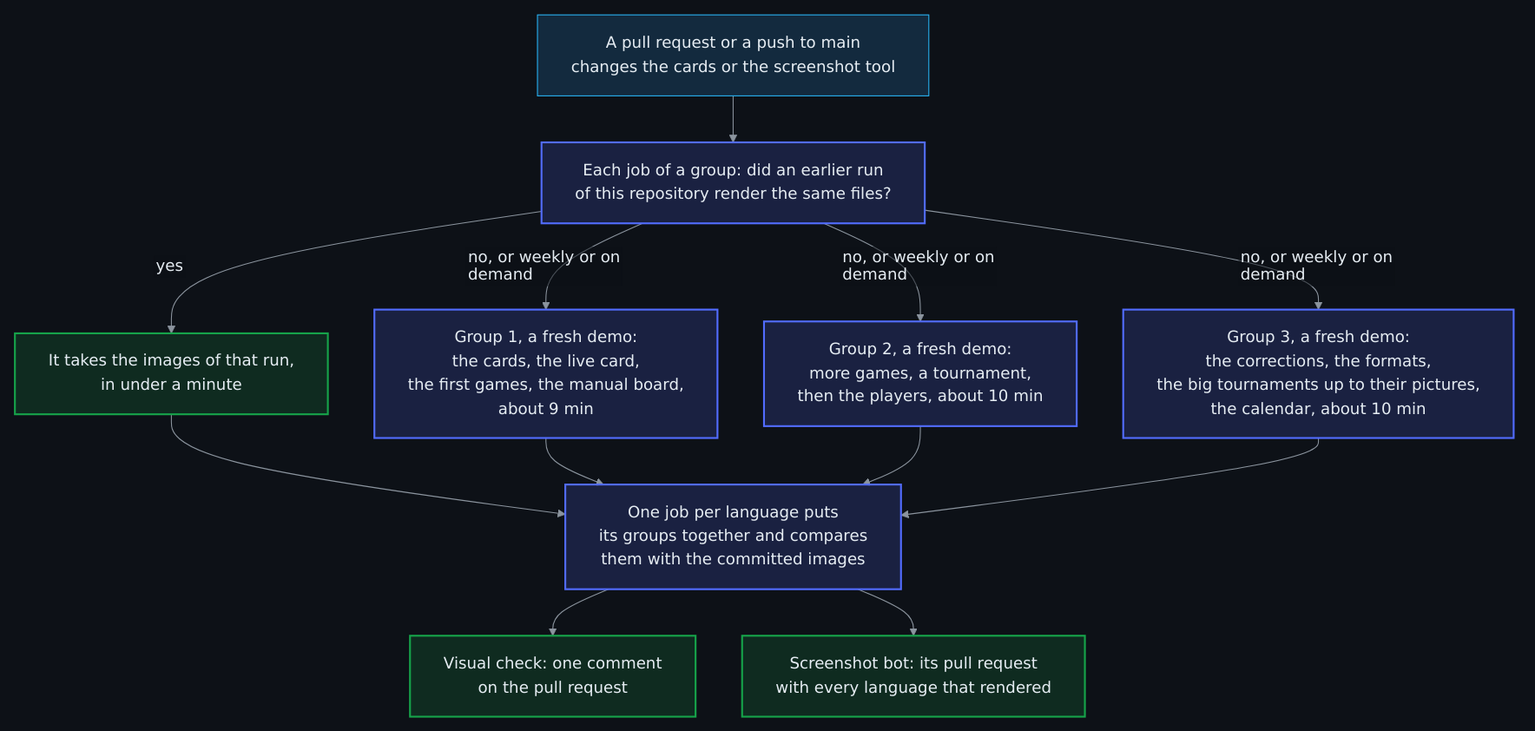
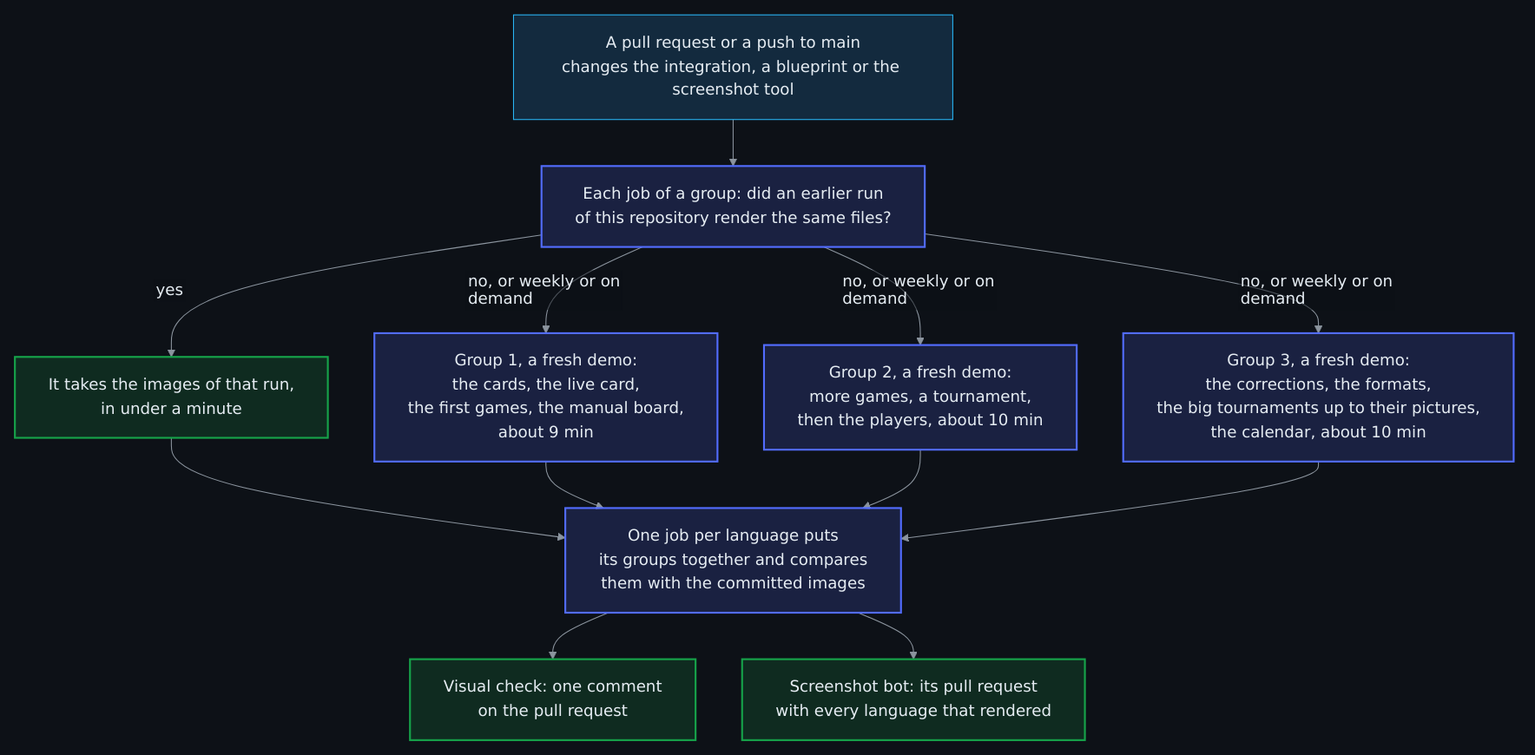
ci: start the visual check and the screenshot bot for integration and blueprint changes (#534)
## Summary

The visual check and the screenshot bot started only for the cards and
the screenshot tool. A change of the integration's Python or of a
blueprint also changes what the images show, but started neither. Since
#500 the render key covers both paths and an unchanged key reuses the
images of an earlier run in under a minute, so the wider filters cost a
full render only when those files really change.

## Changes

- **`visual.yml`, `screenshots.yml`:** both start for
`blueprints/automation/homedarts/**` and
`custom_components/homedarts/**`. The old entries for the cards folder
and for the manifest in the bot are now part of those patterns.
- **Files no render reads:** `LICENSE`, `quality_scale.yaml` and
`strings.json` of the integration start no render and join `SKIPPED` in
`tests/e2e/render_key.py`, so they leave the key. Home Assistant reads
its texts from `translations/` and the quality scale from the manifest,
and no module opens these files. The translations of `es`, `fr` and `nl`
stay in: `services.py` can read them to recognise the name of a game, so
they don't count as unread.
- **The manifest in the visual check:** it stays out, as before.
release-please writes the version into it in its pull request, which
comes anew after every merge to `main`. With the wider pattern, each
refresh would render all six groups under a key nothing else has, to
report no difference. The bot still starts for it, so a new major
[…]

diff --git a/tests/test_consistency.py b/tests/test_consistency.py
@@ -10,6 +10,7 @@ import re
 import shlex
 import tomllib
 from collections import Counter
+from fnmatch import fnmatchcase
 from functools import cache
 from pathlib import Path
 from typing import Any
@@ -604,14 +605,28 @@ def test_the_browser_test_mounts_only_the_repository_and_its_artifacts():
     ]
 
 
-def skipped_by(workflow: str) -> set[str]:
-    """The files of the end-to-end tests whose change alone does not start a workflow
-    of the screenshot tool."""
+def render_paths(workflow: str) -> list[str]:
+    """The paths of a workflow of the screenshot tool, in their order."""
     path = ROOT / ".github" / "workflows" / workflow
     # PyYAML reads the key "on" as True.
     trigger = yaml.safe_load(path.read_text(encoding="utf-8"))[True]
     (event,) = [event for event in ("push", "pull_request") if event in trigger]
-    return {path[1:] for path in trigger[event]["paths"] if path.startswith("!")}
+    return trigger[event]["paths"]
+
+
+def skipped_by(workflow: str) -> set[str]:
+    """The files whose change alone does not start a workflow of the screenshot tool."""
+    return {path[1:] for path in render_paths(workflow) if path.startswith("!")}
+
+
+def starts_a_render(workflow: str, path: str) -> bool:
+    """Whether a change of a file alone starts a workflow of the screenshot tool. As
+    on GitHub, the last of its paths that matches the file decides."""
+    started = False
+    for pattern in render_paths(workflow):
+        if fnmatchcase(path, pattern.removeprefix("!")):
+            started = not pattern.startswith("!")
+    return started
 
 
 def imports(script: Path) -> set[str]:
@@ -651,12 +666,9 @@ def test_the_pictures_are_taken_again_when_the_recorded_board_changes(workflow):
     # the pictures show what it answers, such as the board PC of the status card.
     recordings = "tests/fixtures/board_manager"
     assert recordings in mounted()
-    path = ROOT / ".github" / "workflows" / workflow
-    trigger = yaml.safe_load(path.read_text(encoding="utf-8"))[True]
-    (event,) = [event for event in ("push", "pull_request") if event in trigger]
-    assert f"{recordings}/**" in trigger[event]["paths"]
+    assert f"{recordings}/**" in render_paths(workflow)
     # Its README alone changes no picture.
-    assert f"!{recordings}/README.md" in trigger[event]["paths"]
+    assert f"!{recordings}/README.md" in render_paths(workflow)
 
 
 # The key of the rendered images (tests/e2e/render_key.py): a job of the visual check
@@ -686,20 +698,94 @@ def test_the_key_of_the_images_knows_every_file_that_the_demo_mounts():
         assert in_the_key(path), f"render_key.py must know {path}, which the demo reads"
 
 
-@pytest.mark.parametrize("workflow", ["screenshots.yml", "visual.yml"])
-def test_the_key_of_the_images_skips_what_the_workflow_skips(workflow):
+# The version that a release writes into the manifest is in the key, because the
+# demo shows its major version, and the screenshot bot renders it after the release.
+# The visual check leaves the manifest out: release-please writes it in its pull
+# request, which comes anew after every merge to main, and each of those would render
+# all the images, under a key that nothing else has, to report no difference.
+RELEASE_ONLY = "custom_components/homedarts/manifest.json"
+
+
+@pytest.mark.parametrize(
+    ("workflow", "apart"),
+    [("screenshots.yml", set()), ("visual.yml", {RELEASE_ONLY})],
+)
+def test_the_key_of_the_images_skips_what_the_workflow_skips(workflow, apart):
     # A file whose change alone starts no render changes no image either.
-    assert skipped_by(workflow) == render_key.SKIPPED
+    assert skipped_by(workflow) == render_key.SKIPPED | apart
+
+
+# Asks Git for the files of the key, and mutmut's copy has no Git.
+@pytest.mark.mutation_unsafe
+@pytest.mark.parametrize("workflow", ["screenshots.yml", "visual.yml"])
+def test_every_file_of_the_key_starts_a_render(workflow):
+    # A file of the key that started no render would change the images unnoticed,
+    # until the next run renders them for another reason or the weekly run comes.
+    files = {path for path, _, _ in render_key.files()}
+    apart = {RELEASE_ONLY} if workflow == "visual.yml" else set()
+    silent = {path for path in files - apart if not starts_a_render(workflow, path)}
+    assert not silent, f"{workflow} must start for these files of the key"
+
+
+@pytest.mark.parametrize("workflow", ["screenshots.yml", "visual.yml"])
+@pytest.mark.parametrize(
+    "path",
+    [
+        "blueprints/automation/homedarts/new.yaml",
+        "custom_components/homedarts/new.py",
+        "custom_components/homedarts/blueprints/new.yaml",
+        "custom_components/homedarts/translations/de.json",
+        "custom_components/homedarts/frontend/homedarts-card.js",
+    ],
+)
+def test_the_integration_and_the_blueprints_start_a_render(workflow, path):
+    # What the cards display comes from the Python of the integration as well, and the
+    # images of the blueprints from the folder that the demo mounts.
+    assert starts_a_render(workflow, path)
+
+
+@pytest.mark.parametrize("workflow", ["screenshots.yml", "visual.yml"])
+@pytest.mark.parametrize("path", sorted(render_key.SKIPPED))
+def test_what_no_render_reads_starts_no_render(workflow, path):
+    assert not starts_a_render(workflow, path)
+
+
+# Reads the code as text, which holds every mutant in mutmut's copy.
+@pytest.mark.mutation_unsafe
+@pytest.mark.parametrize("name", ["LICENSE", "quality_scale.yaml", "strings.json"])
+def test_what_only_the_release_carries_is_outside_the_key(name):
+    # Home Assistant reads its texts from translations/ and the quality scale from
+    # the manifest, and no module of the integration opens these files: the comment
+    # of a module may name them.
+    assert f"custom_components/homedarts/{name}" in render_key.SKIPPED
+    assert (INTEGRATION / name).is_file()
+    for source in INTEGRATION.glob("*.py"):
+        for line in source.read_text(encoding="utf-8").splitlines():
+            assert name not in line.partition("#")[0], f"{source.name} reads {name}"
+
+
+def test_a_release_starts_the_screenshot_bot_and_not_the_visual_check():
+    # A new major version changes an image, which reaches docs/images by the bot.
+    config = json.loads(
+        (ROOT / "release-please-config.json").read_text(encoding="utf-8")
+    )
+    written = [file["path"] for file in config["packages"]["."]["extra-files"]]
+    assert written == [RELEASE_ONLY]
+    assert starts_a_render("screenshots.yml", RELEASE_ONLY)
+    for path in [
+        *written,
+        "CHANGELOG.md",
+        "version.txt",
+        ".release-please-manifest.json",
+    ]:
+        assert not starts_a_render("visual.yml", path)
 
 
 @pytest.mark.parametrize("workflow", ["screenshots.yml", "visual.yml"])
 def test_the_key_of_the_images_knows_every_file_that_starts_a_render(workflow):
-    path = ROOT / ".github" / "workflows" / workflow
-    trigger = yaml.safe_load(path.read_text(encoding="utf-8"))[True]
-    (event,) = [event for event in ("push", "pull_request") if event in trigger]
     started = [
         pattern.removesuffix("/**")
-        for pattern in trigger[event]["paths"]
+        for pattern in render_paths(workflow)
         if not pattern.startswith("!")
     ]
     # The workflow itself renders as the other one does (tests/test_render_key.py),
@@ -709,7 +795,7 @@ def test_the_key_of_the_images_knows_every_file_that_starts_a_render(workflow):
         "tests/demo_timeline.py",
         "scripts/record_demo.py",
     }
-    assert "custom_components/homedarts/frontend" in started
+    assert set(render_key.INPUTS) <= set(started)
     for pattern in started:
         if pattern not in apart:
             assert in_the_key(pattern), f"render_key.py must know {pattern}"

diff --git a/tests/e2e/render_key.py b/tests/e2e/render_key.py
@@ -56,9 +56,14 @@ INPUTS = (
     "tests/fixtures/board_manager",
 )
 # The files below INPUTS that no render reads, as the paths of both workflows skip
-# them: the browser test, the end-to-end test and their notes.
+# them: what only the release of the integration carries, as Home Assistant reads its
+# texts from the translations and the quality scale from the manifest, the browser
+# test, the end-to-end test and their notes.
 SKIPPED = frozenset(
     {
+        "custom_components/homedarts/LICENSE",
+        "custom_components/homedarts/quality_scale.yaml",
+        "custom_components/homedarts/strings.json",
         "tests/e2e/README.md",
         "tests/e2e/accessibility-baseline.toml",
         "tests/e2e/browser.py",

diff --git a/docs/development.de.md b/docs/development.de.md
@@ -61,20 +61,20 @@ Wird eine Gruppe deutlich länger als die anderen, wandert ein Abschnitt in eine
 
 Die Bilder einer Gruppe hängen von nichts ab als den Dateien, die das Erzeugen liest, und dieselben Dateien ergeben dieselben Bilder, Byte für Byte ([in jedem Lauf dieselben Bilder](#in-jedem-lauf-dieselben-bilder)). Bevor ein Job des [Screenshot-Bots](#screenshot-bot) oder des [Bildvergleichs](#bildvergleich) seine Gruppe erzeugt, sucht er deshalb einen früheren Lauf, der dieselben Dateien schon erzeugt hat, und übernimmt dessen Bilder, in unter einer Minute. Die Zusammenfassung des Jobs und eine Annotation sagen `Reused from run …`, mit einem Link zum Lauf.
 
-- **Der Schlüssel.** `tests/e2e/render_key.py` bildet einen SHA-256 über die Git-Objekte jeder Datei, die das Erzeugen liest: die Integration in `custom_components/homedarts` mit ihren Karten und ihrem Manifest, die Blueprints in `blueprints/automation/homedarts`, die die Demo zeigt, das Screenshot-Werkzeug und die Demo in `tests/e2e`, mit den Compose-Dateien, die Home Assistant und Playwright per Digest festlegen, und die [aufgezeichneten Antworten](#aufgezeichnete-antworten-des-board-managers) des simulierten Board Managers, ohne die Dateien, die die Pfade beider Workflows auslassen, etwa den Browsertest. Auch die Sprache und die Gruppe gehören zum Schlüssel. Ein Job behält seine Bilder sieben Tage lang als Artefakt `rendered-<Sprache>-<Gruppe>-<Schlüssel>`, auch wenn er sie aus einem früheren Lauf übernommen hat, damit die nächsten Läufe sie finden.
+- **Der Schlüssel.** `tests/e2e/render_key.py` bildet einen SHA-256 über die Git-Objekte jeder Datei, die das Erzeugen liest: die Integration in `custom_components/homedarts` mit ihren Karten und ihrem Manifest, die Blueprints in `blueprints/automation/homedarts`, die die Demo zeigt, das Screenshot-Werkzeug und die Demo in `tests/e2e`, mit den Compose-Dateien, die Home Assistant und Playwright per Digest festlegen, und die [aufgezeichneten Antworten](#aufgezeichnete-antworten-des-board-managers) des simulierten Board Managers, ohne die Dateien, die das Erzeugen nicht liest und die die Pfade beider Workflows auslassen, etwa den Browsertest oder die Lizenz der Integration. Auch die Sprache und die Gruppe gehören zum Schlüssel. Ein Job behält seine Bilder sieben Tage lang als Artefakt `rendered-<Sprache>-<Gruppe>-<Schlüssel>`, auch wenn er sie aus einem früheren Lauf übernommen hat, damit die nächsten Läufe sie finden.
 - **Die Suche.** Der Job fragt die API von GitHub nach einem nicht abgelaufenen Artefakt dieses Namens. Er übernimmt die Bilder des neuesten nur, wenn ein Lauf des Bildvergleichs oder des Screenshot-Bots dieses Repositorys es behalten hat, für einen Branch dieses Repositorys. Die eines Pull Requests aus einem Fork übernimmt er nie: Ein solcher Pull Request führt den Bildvergleich mit den Workflows seines eigenen Branches aus und könnte beliebige Bilder unter dem Schlüssel von `main` behalten. Scheitern Suche oder Download, erzeugt der Job die Gruppe wie bisher.
-- **Wann es hilft.** *Update branches* bringt jeden Pull Request, der auf Auto-Merge wartet, auf den Stand von `main`, und jede Aktualisierung erzeugte bisher alle sechs Gruppen neu, auch wenn `main` nichts geändert hatte, woraus die Bilder entstehen. Nach dem Merge hat der Commit auf `main` die Dateien, die der Bildvergleich des Pull Requests zuletzt erzeugt hat, denn `main` nimmt nur Pull Requests auf dem neuesten Stand. Also übernimmt auch der Screenshot-Bot diese Bilder.
+- **Wann es hilft.** *Update branches* bringt jeden Pull Request, der auf Auto-Merge wartet, auf den Stand von `main`, und jede Aktualisierung erzeugte bisher alle sechs Gruppen neu, auch wenn `main` nichts geändert hatte, woraus die Bilder entstehen. Nach dem Merge hat der Commit auf `main` die Dateien, die der Bildvergleich des Pull Requests zuletzt erzeugt hat, denn `main` nimmt nur Pull Requests auf dem neuesten Stand. Also übernimmt auch der Screenshot-Bot diese Bilder. Darum können beide Workflows für jede Datei des Schlüssels starten, auch wenn ein Pull Request nur den Python-Code der Integration oder einen Blueprint ändert: Ein vollständiges Erzeugen kostet seine Zeit nur, wenn sich diese Dateien wirklich geändert haben.
 - **Frisch erzeugt.** Der wöchentliche Lauf des Screenshot-Bots und jeder Lauf auf Abruf, des Bots oder des Bildvergleichs, erzeugen neu. Sie bemerken, was sich außerhalb des Repositorys geändert hat, etwa die Symbole der anderen Integrationen von Home Assistant von `brands.home-assistant.io`. Ein Lauf des Bots auf Abruf zeigt auch, dass die übernommenen Bilder die eines frischen Erzeugens waren: Dann findet er kein Bild zu aktualisieren.
 
 ```sh
 python3 tests/e2e/render_key.py key de 2   # der Schlüssel der zweiten Gruppe auf Deutsch
 ```
 
-`tests/test_render_key.py` prüft den Schlüssel, die Suche und die Schritte beider Workflows; `tests/test_consistency.py` prüft, dass der Schlüssel jede Datei kennt, die die Demo einbindet, und jeden Pfad, der ein Erzeugen startet, und auslässt, was beide Workflows auslassen; `scripts/check-project.sh` schlägt fehl, wenn eine Zeile oder ein Zweig von `render_key.py` in keinem Test läuft. Bekommt der Schritt der Workflows, der die Bilder erzeugt, eine neue Einstellung, steigt `FORMAT` in `render_key.py` um eins, damit kein Job Bilder des alten Erzeugens übernimmt.
+`tests/test_render_key.py` prüft den Schlüssel, die Suche und die Schritte beider Workflows; `tests/test_consistency.py` prüft, dass der Schlüssel jede Datei kennt, die die Demo einbindet, und jeden Pfad, der ein Erzeugen startet, dass jede Datei des Schlüssels beide Workflows startet, außer dem Manifest beim Bildvergleich, und dass der Schlüssel auslässt, was beide Workflows auslassen; `scripts/check-project.sh` schlägt fehl, wenn eine Zeile oder ein Zweig von `render_key.py` in keinem Test läuft. Bekommt der Schritt der Workflows, der die Bilder erzeugt, eine neue Einstellung, steigt `FORMAT` in `render_key.py` um eins, damit kein Job Bilder des alten Erzeugens übernimmt.
 
 ## Screenshot-Bot
 
-Der Workflow **Screenshot bot** (`.github/workflows/screenshots.yml`) hält die Bilder aktuell. Wenn eine Änderung der Karten (`custom_components/homedarts/frontend/`) oder des Screenshot-Werkzeugs (`tests/e2e/`, außer Browsertest und End-to-End-Test, und die [aufgezeichneten Antworten](#aufgezeichnete-antworten-des-board-managers) seines simulierten Board Managers) auf `main` landet, jeden Donnerstag und auf Abruf erzeugt er jedes Bild beider Sprachen neu, in [Gruppen nebeneinander](#gruppen-nebeneinander), und vergleicht es Pixel für Pixel mit dem eingecheckten. Nach einem Push übernimmt eine Gruppe, deren Dateien der Bildvergleich des Pull Requests schon erzeugt hat, dessen Bilder ([einmal erzeugte Bilder](#einmal-erzeugte-bilder)); donnerstags und auf Abruf erzeugt jede Gruppe neu. Ein Bild, dessen Pixel gleich geblieben sind, behält seine Datei. Nur die erzeugten Bilder kommen über die von `main`: Die Diagramme in `docs/images`, die `main` bis zum Ende des Erzeugens neu haben kann, bleiben, wie sie sind, und ein Bild, das weder das Werkzeug noch ein Diagramm in `docs/diagrams` mehr erzeugt, fällt weg.
+Der Workflow **Screenshot bot** (`.github/workflows/screenshots.yml`) hält die Bilder aktuell. Wenn eine Änderung der Integration mit ihren Karten (`custom_components/homedarts/`), der Blueprints, die die Demo zeigt (`blueprints/automation/homedarts/`), oder des Screenshot-Werkzeugs (`tests/e2e/`, außer Browsertest und End-to-End-Test, und die [aufgezeichneten Antworten](#aufgezeichnete-antworten-des-board-managers) seines simulierten Board Managers) auf `main` landet, jeden Donnerstag und auf Abruf erzeugt er jedes Bild beider Sprachen neu, in [Gruppen nebeneinander](#gruppen-nebeneinander), und vergleicht es Pixel für Pixel mit dem eingecheckten. Nach einem Push übernimmt eine Gruppe, deren Dateien der Bildvergleich des Pull Requests schon erzeugt hat, dessen Bilder ([einmal erzeugte Bilder](#einmal-erzeugte-bilder)); donnerstags und auf Abruf erzeugt jede Gruppe neu. Ein Bild, dessen Pixel gleich geblieben sind, behält seine Datei. Nur die erzeugten Bilder kommen über die von `main`: Die Diagramme in `docs/images`, die `main` bis zum Ende des Erzeugens neu haben kann, bleiben, wie sie sind, und ein Bild, das weder das Werkzeug noch ein Diagramm in `docs/diagrams` mehr erzeugt, fällt weg.
 
 Auch ein Release startet den Bot. Es schreibt seine Version in `custom_components/homedarts/manifest.json`, und die Integrationsseite in `online-bridge.png` zeigt davon die Hauptversion ([eine feste Version](#in-jedem-lauf-dieselben-bilder)): Ein Release derselben Hauptversion erzeugt jedes Bild wie zuvor, eine neue Hauptversion wie 2.0.0 ändert dieses Bild. Den Release-Pull-Request merget der Maintainer oder die Release-App, also startet sein Push auf `main` Workflows wie jeder andere; nur ein Merge mit dem `GITHUB_TOKEN` eines Workflows startete keine. So folgt das Bild einer neuen Hauptversion binnen einer Stunde statt erst am Donnerstag, und der Bildvergleich späterer Pull Requests meldet es nicht tagelang als geändert.
 
@@ -107,7 +107,7 @@ Dann öffnest du <http://127.0.0.1:8000/demo/index.html?lang=de>.
 
 ## Bildvergleich
 
-Der Workflow **Visual check** (`.github/workflows/visual.yml`) erzeugt die Bilder auf dieselbe Weise für jeden Pull Request, der die Karten, das Screenshot-Werkzeug oder die aufgezeichneten Antworten seines simulierten Board Managers ändert, und vergleicht sie mit den eingecheckten. Eine Gruppe, deren Dateien ein früherer Lauf schon erzeugt hat, übernimmt dessen Bilder, etwa nachdem *Update branches* den Pull Request auf den Stand von `main` gebracht hat ([einmal erzeugte Bilder](#einmal-erzeugte-bilder)). Er meldet nur, denn eine gewollte Änderung kommt nach dem Merge über den Screenshot-Bot nach `docs/images`:
+Der Workflow **Visual check** (`.github/workflows/visual.yml`) erzeugt die Bilder auf dieselbe Weise für jeden Pull Request, der die Integration mit ihren Karten, die Blueprints, die die Demo zeigt, das Screenshot-Werkzeug oder die aufgezeichneten Antworten seines simulierten Board Managers ändert, und vergleicht sie mit den eingecheckten. Das Manifest allein startet ihn nicht: Release-please schreibt die Version in seinem Pull Request hinein, der nach jedem Merge auf `main` neu kommt, und der Screenshot-Bot erzeugt eine neue Hauptversion nach dem Release. Eine Gruppe, deren Dateien ein früherer Lauf schon erzeugt hat, übernimmt dessen Bilder, etwa nachdem *Update branches* den Pull Request auf den Stand von `main` gebracht hat ([einmal erzeugte Bilder](#einmal-erzeugte-bilder)). Er meldet nur, denn eine gewollte Änderung kommt nach dem Merge über den Screenshot-Bot nach `docs/images`:
 
 - Die Zusammenfassung des Jobs *compare* jeder Sprache nennt jedes Bild, das anders aussieht, mit dem Anteil seiner Pixel, der sich geändert hat.
 - Die Artefakte `visual-en` und `visual-de` behalten jedes geänderte Bild vorher und nachher und ein Bild des Unterschieds: das neue Bild in Grau, jedes geänderte Pixel in Rot.

diff --git a/docs/development.md b/docs/development.md
@@ -349,20 +349,20 @@ When a group grows clearly longer than the others, a section moves to another gr
 
 The images of a group depend on nothing but the files that the render reads, and the same files render the same images, byte for byte ([the same images in every run](#the-same-images-in-every-run)). So before a job of the [screenshot bot](#screenshot-bot) or of the [visual check](#visual-check) renders its group, it looks for an earlier run that already rendered the same files, and takes the images of that run instead, in under a minute. The job's summary and an annotation say `Reused from run …`, with a link to the run.
 
-- **The key.** `tests/e2e/render_key.py` computes a SHA-256 over the Git objects of every file that the render reads: the integration in `custom_components/homedarts` with its cards and its manifest, the blueprints in `blueprints/automation/homedarts`, which the demo shows, the screenshot tool and the demo in `tests/e2e`, with the compose files that pin Home Assistant and Playwright by digest, and the [recorded answers](#recorded-board-manager-answers) of the simulated Board Manager, without the files that the paths of both workflows skip, such as the browser test. The language and the group belong to the key too. A job keeps its images as the artifact `rendered-<language>-<group>-<key>`, for seven days, also when it took them from an earlier run, so that the next runs find them.
+- **The key.** `tests/e2e/render_key.py` computes a SHA-256 over the Git objects of every file that the render reads: the integration in `custom_components/homedarts` with its cards and its manifest, the blueprints in `blueprints/automation/homedarts`, which the demo shows, the screenshot tool and the demo in `tests/e2e`, with the compose files that pin Home Assistant and Playwright by digest, and the [recorded answers](#recorded-board-manager-answers) of the simulated Board Manager, without the files that no render reads, which the paths of both workflows skip, such as the browser test or the license of the integration. The language and the group belong to the key too. A job keeps its images as the artifact `rendered-<language>-<group>-<key>`, for seven days, also when it took them from an earlier run, so that the next runs find them.
 - **The lookup.** The job asks GitHub's API for an artifact of that name that hasn't expired. It takes the images of the newest one only when a run of the visual check or of the screenshot bot of this repository kept it, for a branch of this repository. It never takes those of a pull request from a fork: such a pull request runs the visual check with the workflows of its own branch, and could keep any images under the key of `main`. When the lookup or the download fails, the job renders the group as before.
-- **When it helps.** *Update branches* brings every pull request that waits for auto-merge up to date with `main`, and every update used to render all six groups anew, even when `main` changed nothing that the images are rendered from. After the merge, the commit on `main` has the files that the visual check of the pull request rendered last, because `main` takes only pull requests that are up to date with it, so the screenshot bot takes those images as well.
+- **When it helps.** *Update branches* brings every pull request that waits for auto-merge up to date with `main`, and every update used to render all six groups anew, even when `main` changed nothing that the images are rendered from. After the merge, the commit on `main` has the files that the visual check of the pull request rendered last, because `main` takes only pull requests that are up to date with it, so the screenshot bot takes those images as well. So both workflows can start for every file of the key, also when a pull request changes only the Python of the integration or a blueprint: a full render costs its time only when those files really changed.
 - **Fresh renders.** The weekly run of the screenshot bot and every run on demand, of the bot or of the visual check, render anew. They catch what changed outside the repository, such as the icons of Home Assistant's other integrations from `brands.home-assistant.io`. A run of the bot on demand also shows that the images it took were those of a fresh render: when they were, it finds no image to update.
 
 ```sh
 python3 tests/e2e/render_key.py key en 2   # the key of the second group in English
 ```
 
-`tests/test_render_key.py` checks the key, the lookup and the steps of both workflows; `tests/test_consistency.py` checks that the key knows every file that the demo mounts and every path that starts a render, and skips what both workflows skip; `scripts/check-project.sh` fails when a line or a branch of `render_key.py` runs in no test. When the step of the workflows that renders the images gets a new setting, `FORMAT` in `render_key.py` goes up by one, so that no job takes images of the old render.
+`tests/test_render_key.py` checks the key, the lookup and the steps of both workflows; `tests/test_consistency.py` checks that the key knows every file that the demo mounts and every path that starts a render, that every file of the key starts both workflows, except the manifest for the visual check, and that the key skips what both workflows skip; `scripts/check-project.sh` fails when a line or a branch of `render_key.py` runs in no test. When the step of the workflows that renders the images gets a new setting, `FORMAT` in `render_key.py` goes up by one, so that no job takes images of the old render.
 
 ### Screenshot bot
 
-The **Screenshot bot** workflow (`.github/workflows/screenshots.yml`) keeps the images current. After a change of the cards (`custom_components/homedarts/frontend/`) or of the screenshot tool (`tests/e2e/`, except the browser test and the end-to-end test, and the [recorded answers](#recorded-board-manager-answers) of its simulated Board Manager) reaches `main`, every Thursday and on demand, it renders every image of both languages anew, in [groups side by side](#groups-side-by-side), and compares them pixel by pixel with the committed ones. After a push, a group whose files the visual check of the pull request already rendered takes those images ([images rendered once](#images-rendered-once)); on Thursday and on demand, every group renders. An image whose pixels stayed the same keeps its file. Only the rendered images go over those of `main`: the diagrams in `docs/images`, which `main` may have anew by the time the images are rendered, stay as they are, and an image that neither the tool nor a diagram in `docs/diagrams` makes any more goes.
+The **Screenshot bot** workflow (`.github/workflows/screenshots.yml`) keeps the images current. After a change of the integration with its cards (`custom_components/homedarts/`), of the blueprints that the demo shows (`blueprints/automation/homedarts/`) or of the screenshot tool (`tests/e2e/`, except the browser test and the end-to-end test, and the [recorded answers](#recorded-board-manager-answers) of its simulated Board Manager) reaches `main`, every Thursday and on demand, it renders every image of both languages anew, in [groups side by side](#groups-side-by-side), and compares them pixel by pixel with the committed ones. After a push, a group whose files the visual check of the pull request already rendered takes those images ([images rendered once](#images-rendered-once)); on Thursday and on demand, every group renders. An image whose pixels stayed the same keeps its file. Only the rendered images go over those of `main`: the diagrams in `docs/images`, which `main` may have anew by the time the images are rendered, stay as they are, and an image that neither the tool nor a diagram in `docs/diagrams` makes any more goes.
 
 A release starts the bot as well. It writes its version into `custom_components/homedarts/manifest.json`, and the integration page in `online-bridge.png` shows the major version of it ([a fixed version](#the-same-images-in-every-run)): a release of the same major version renders every image as it was, a new major version, such as 2.0.0, changes that image. The maintainer or the release app merges the release pull request, so its push to `main` starts workflows like any other; only a merge with the `GITHUB_TOKEN` of a workflow would start none. So the image follows a new major version within the hour rather than on Thursday, and the visual check of later pull requests doesn't report it as changed for days.
 
@@ -372,7 +372,7 @@ When any image changed, the bot opens one pull request, *docs: update the screen
 
 ### Visual check
 
-The **Visual check** workflow (`.github/workflows/visual.yml`) renders the images the same way for every pull request that changes the cards, the screenshot tool or the recorded answers of its simulated Board Manager, and compares them with the committed ones. A group whose files an earlier run already rendered takes those images, such as after *Update branches* brought the pull request up to date with `main` ([images rendered once](#images-rendered-once)). It only reports, because an intended change reaches `docs/images` through the screenshot bot after the merge:
+The **Visual check** workflow (`.github/workflows/visual.yml`) renders the images the same way for every pull request that changes the integration with its cards, the blueprints that the demo shows, the screenshot tool or the recorded answers of its simulated Board Manager, and compares them with the committed ones. The manifest alone doesn't start it: release-please writes the version into it in its pull request, which comes anew after every merge to `main`, and the screenshot bot renders a new major version after the release. A group whose files an earlier run already rendered takes those images, such as after *Update branches* brought the pull request up to date with `main` ([images rendered once](#images-rendered-once)). It only reports, because an intended change reaches `docs/images` through the screenshot bot after the merge:
 
 - the summary of the job *compare* of each language lists every image that looks different, with the share of its pixels that changed;
 - the artifacts `visual-en` and `visual-de` keep every changed image before and after, and a picture of the difference: the new image in grey, with every changed pixel in red;
@@ -433,7 +433,7 @@ Every pull request, and every push to `main`, runs:
   in four shards, side by side, and both again against Home Assistant 2026.8.0, the oldest
   supported release, when a pull request changes what they use (see
   [When the end-to-end tests run](#when-the-end-to-end-tests-run));
-- the [visual check](#visual-check) of the documentation images, when a pull request changes the cards or the screenshot tool;
+- the [visual check](#visual-check) of the documentation images, when a pull request changes the integration, its blueprints or the screenshot tool;
 - HACS validation and hassfest;
 - actionlint, CodeQL for Python, the card JavaScript and the workflows, and dependency review;
 - Gitleaks and an SPDX SBOM.
